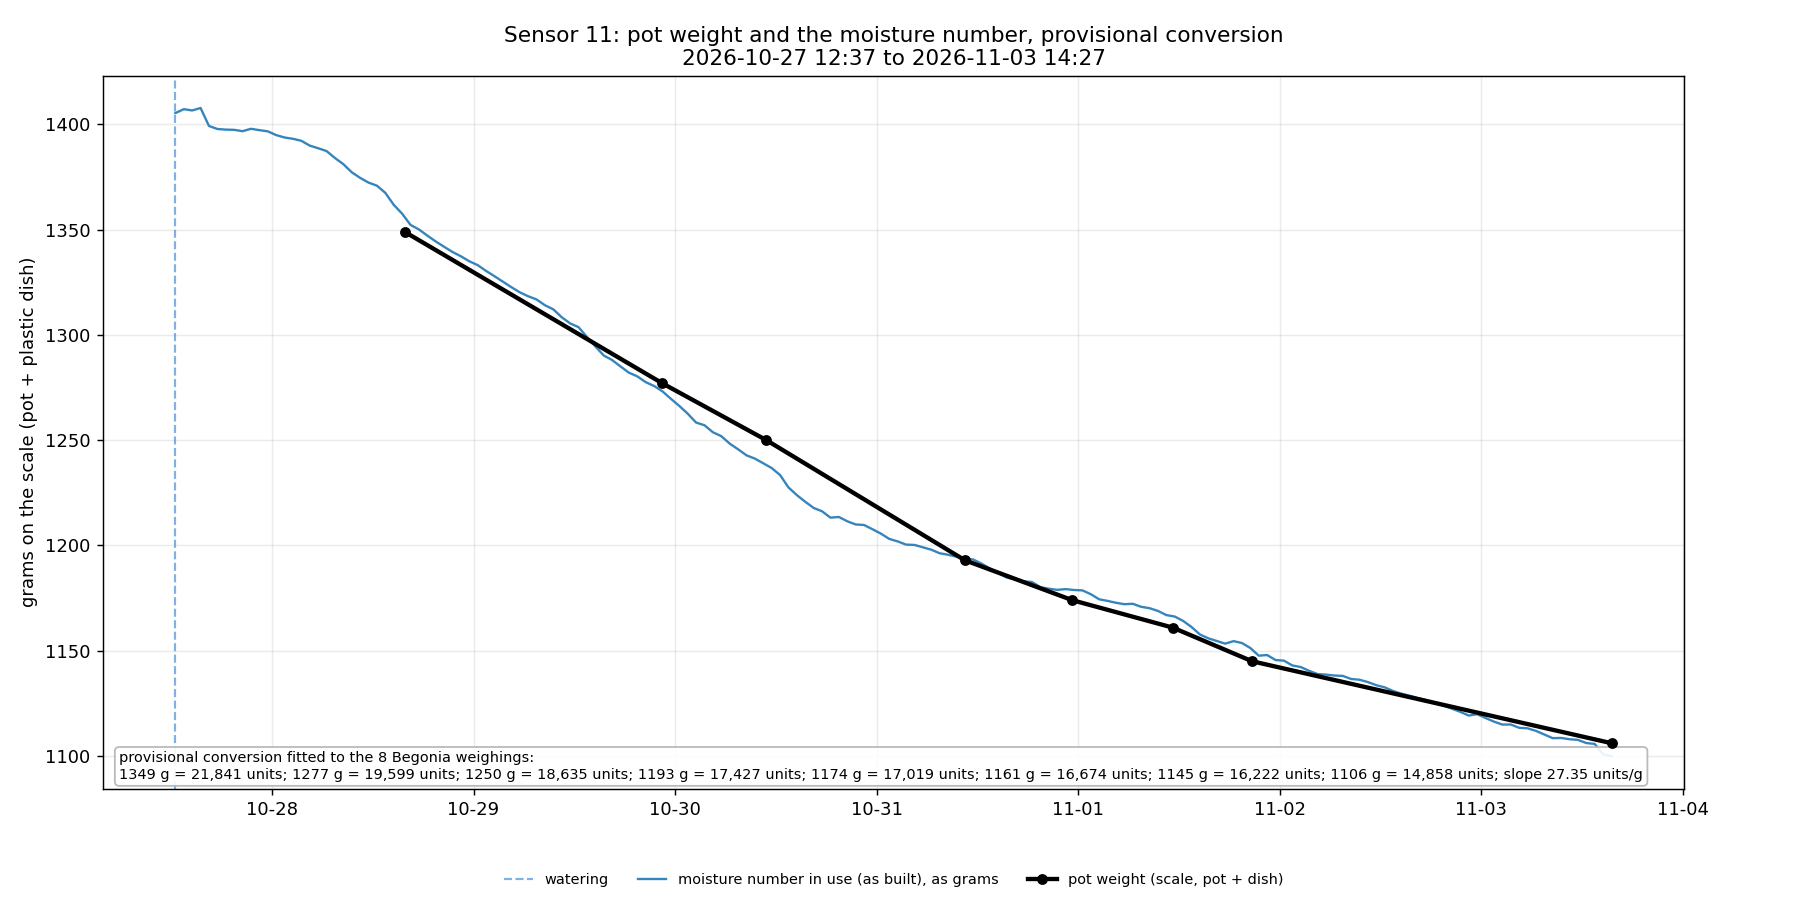
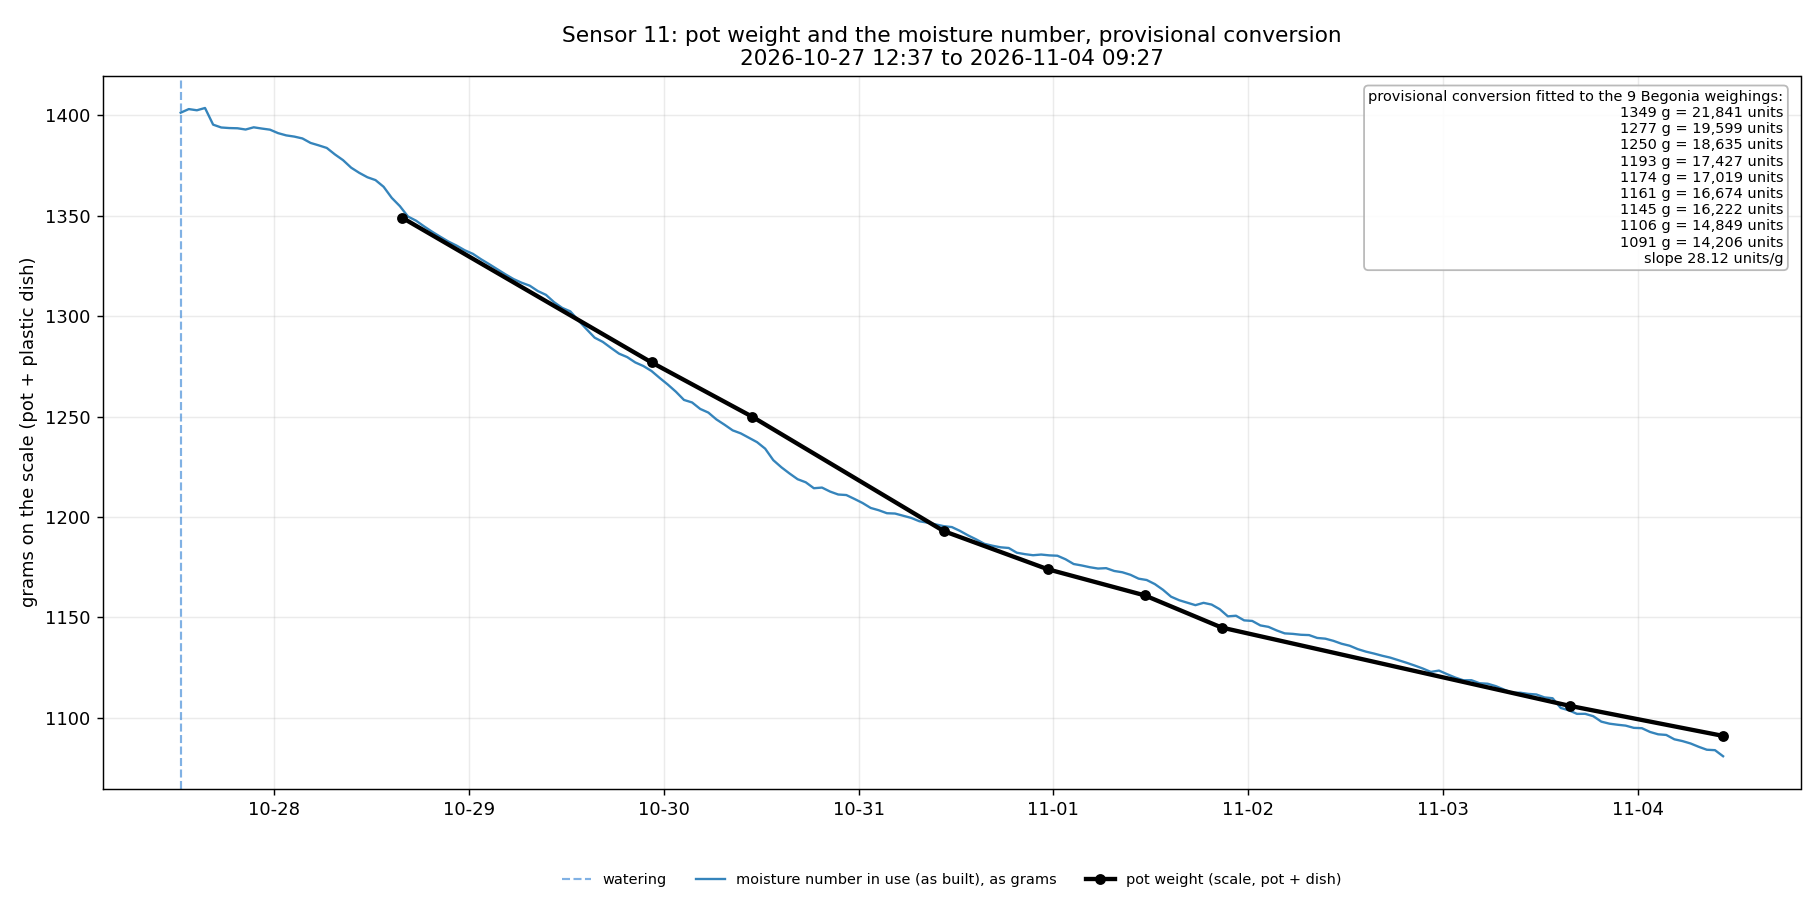
Begonia (sensor 11): 1091 on 11-04 morning (15 g under the 11-03 afternoon 1106)
Plot: fit note moved to the empty upper-right corner, one pair per line;
at the bottom-left it had started covering the newest moisture line.

diff --git a/MSV4/scripts/msv4_begonia_mass_plot.py b/MSV4/scripts/msv4_begonia_mass_plot.py
@@ -85,10 +85,12 @@ def main() -> None:
     ax.set_ylabel("grams on the scale (pot + plastic dish)")
     ax.set_title("Sensor 11: pot weight and the moisture number, provisional conversion\n"
                  f"{rows[0]['time']:%Y-%m-%d %H:%M} to {rows[-1]['time']:%Y-%m-%d %H:%M}")
+    # The pot only dries, so the data runs top-left to bottom-right; the
+    # upper-right corner stays empty, one pair per line.
     note = (f"provisional conversion fitted to the {len(paired)} Begonia weighings:\n"
-            + "; ".join(f"{g:.0f} g = {u:,.0f} units" for g, u in paired)
-            + f"; slope {slope:.2f} units/g")
-    ax.text(0.01, 0.01, note, transform=ax.transAxes, fontsize=8, va="bottom",
+            + "\n".join(f"{g:.0f} g = {u:,.0f} units" for g, u in paired)
+            + f"\nslope {slope:.2f} units/g")
+    ax.text(0.99, 0.98, note, transform=ax.transAxes, fontsize=8, va="top", ha="right",
             bbox=dict(boxstyle="round", fc="white", ec="0.7", alpha=0.9))
     ax.xaxis.set_major_formatter(mdates.DateFormatter("%m-%d", tz=rows[0]["time"].tzinfo))
     ax.grid(alpha=0.25)
